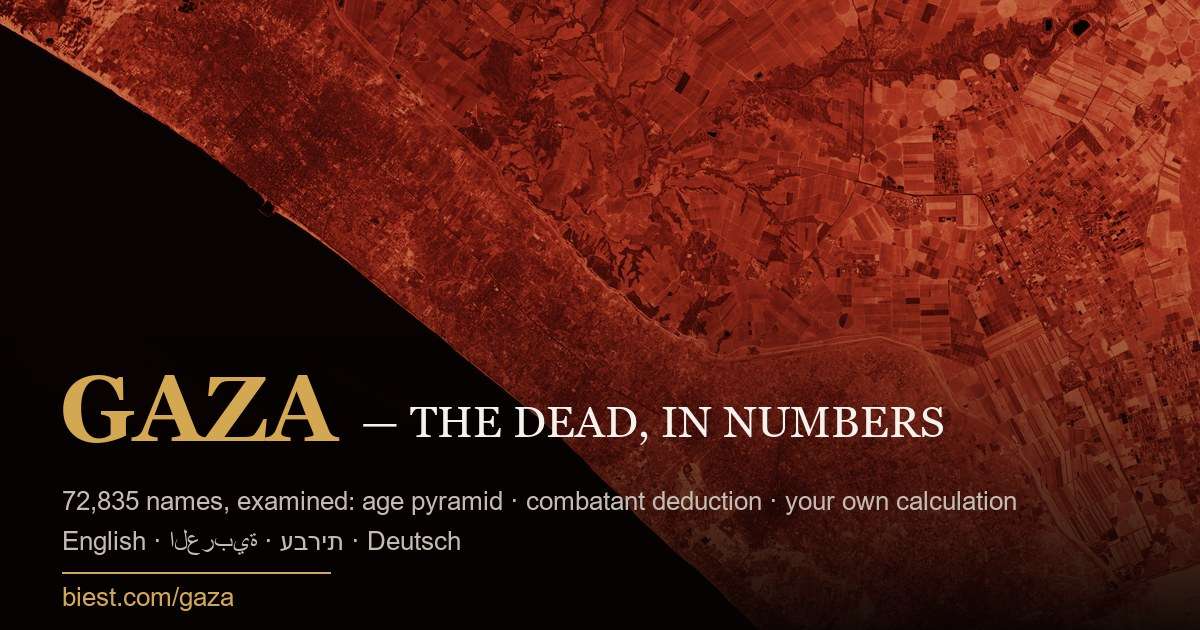
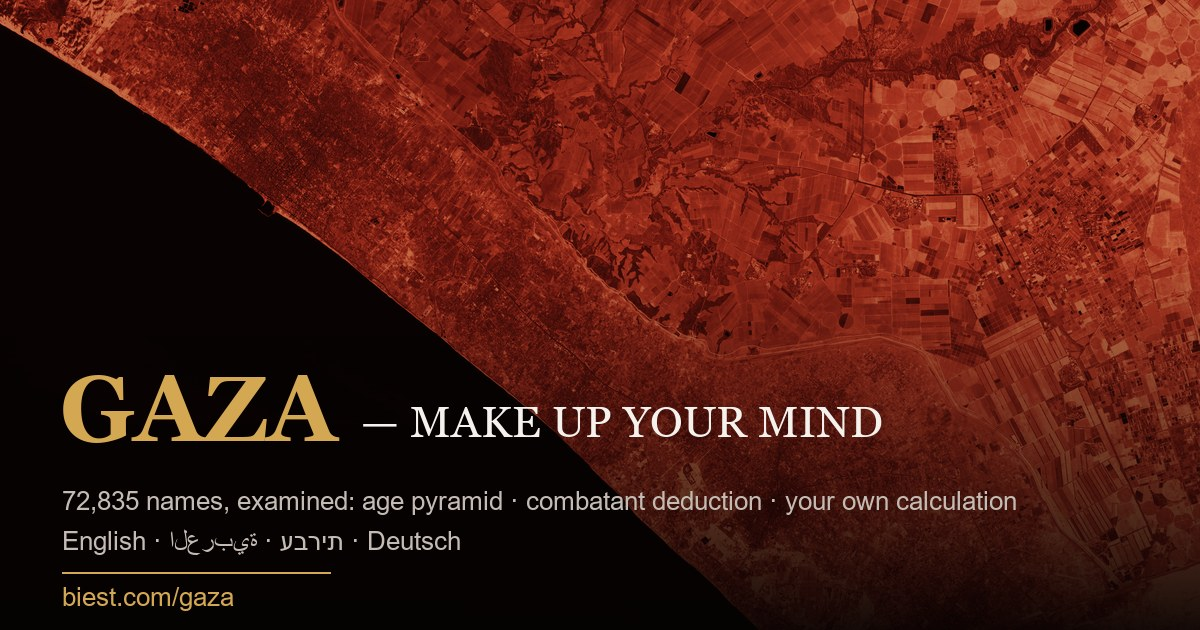
retitle: Make Up Your Mind (site, OG image, metas)

Changed region(s): [[0.3392, 0.6333, 0.8017, 0.6937]]

diff --git a/site/index.html b/site/index.html
@@ -3,18 +3,18 @@
 <head>
 <meta charset="utf-8">
 <meta name="viewport" content="width=device-width, initial-scale=1">
-<title>Gaza: Die Toten in Zahlen — biest.com</title>
+<title>Gaza: Bilde dir dein Urteil — biest.com</title>
 <meta name="description" content="Statistische Analyse der Opferliste des Gazakriegs 2023–2026: Alterspyramide, Skeptiker-Checks, Zeitverlauf und Presse-Perspektiven.">
 <meta property="og:type" content="website">
 <meta property="og:site_name" content="biest.com">
-<meta property="og:title" content="Gaza — The Dead, in Numbers">
+<meta property="og:title" content="Gaza — Make Up Your Mind">
 <meta property="og:description" content="72,835 names, examined: 3D age pyramid, combatant deduction from competing sources, week-by-week press narratives, and a calculator for your own estimate. EN · AR · HE · DE">
 <meta property="og:url" content="https://biest.com/gaza">
 <meta property="og:image" content="https://biest.com/gaza/og.jpg">
 <meta property="og:image:width" content="1200">
 <meta property="og:image:height" content="630">
 <meta name="twitter:card" content="summary_large_image">
-<meta name="twitter:title" content="Gaza — The Dead, in Numbers">
+<meta name="twitter:title" content="Gaza — Make Up Your Mind">
 <meta name="twitter:description" content="72,835 names, examined — age pyramid, combatant deduction, your own calculation. EN · AR · HE · DE">
 <meta name="twitter:image" content="https://biest.com/gaza/og.jpg">
 <script>/* Unter biest.com liegt die Seite auf /gaza (ohne Slash-Redirect) — base fixiert alle relativen Pfade. Lokal neutral. */
@@ -32,7 +32,7 @@ if (location.pathname.startsWith("/gaza")) document.write('<base href="/gaza/">'
 
 <header class="hero">
   <p class="kicker">biest.com · Statistikprojekt</p>
-  <h1>Gaza: Die Toten in Zahlen</h1>
+  <h1>Gaza: Bilde dir dein Urteil</h1>
   <p class="sub">Die Opferliste des Gesundheitsministeriums in Gaza, konsolidiert von Iraq Body Count —
      namentlich, mit ID, Geburtsdatum, Alter und Geschlecht. Hier wird sie nicht nur gezeigt,
      sondern geprüft: auf Plausibilität, Lücken und die Streitfragen der Statistik.</p>

diff --git a/site/js/i18n.js b/site/js/i18n.js
@@ -11,7 +11,7 @@
   const D = {
     // Hero & Chrome
     "hero.kicker":  { de: "biest.com · Statistikprojekt", en: "biest.com · statistics project", ar: "biest.com · مشروع إحصائي", he: "biest.com · פרויקט סטטיסטי" },
-    "hero.title":   { de: "Gaza: Die Toten in Zahlen", en: "Gaza: The Dead, in Numbers", ar: "غزة: القتلى بالأرقام", he: "עזה: המתים במספרים" },
+    "hero.title":   { de: "Gaza: Bilde dir dein Urteil", en: "Gaza: Make Up Your Mind", ar: "غزة: كوّن رأيك بنفسك", he: "עזה: גבשו עמדה בעצמכם" },
     "hero.sub":     { de: "Die Opferliste des Gesundheitsministeriums in Gaza, konsolidiert von Iraq Body Count — namentlich, mit ID, Geburtsdatum, Alter und Geschlecht. Hier wird sie nicht nur gezeigt, sondern geprüft: auf Plausibilität, Lücken und die Streitfragen der Statistik.",
                       en: "The Gaza Health Ministry's casualty list, consolidated by Iraq Body Count — every name with ID, birth date, age and sex. Here it is not just displayed but stress-tested: for plausibility, gaps, and the statistical disputes.",
                       ar: "قائمة قتلى وزارة الصحة في غزة، موحّدة عبر Iraq Body Count — بالأسماء مع الهوية وتاريخ الميلاد والعمر والجنس. هنا لا تُعرض فحسب، بل تُفحص: المعقولية والثغرات والخلافات الإحصائية.",

diff --git a/make_og.py b/make_og.py
@@ -59,7 +59,7 @@ sans = ImageFont.truetype(os.path.join(F, "arial.ttf"), 26)
 GOLD, WHITE, GREY = (212, 168, 83), (245, 242, 238), (196, 188, 180)
 d.text((60, 356), "GAZA", font=serif_b, fill=GOLD)
 w = d.textlength("GAZA", font=serif_b)
-d.text((60 + w + 24, 396), "— THE DEAD, IN NUMBERS", font=serif, fill=WHITE)
+d.text((60 + w + 24, 396), "— MAKE UP YOUR MIND", font=serif, fill=WHITE)
 d.text((62, 486), "72,835 names, examined: age pyramid · combatant deduction · your own calculation",
        font=sans, fill=GREY)
 d.text((62, 526), "English · العربية · עברית · Deutsch", font=sans, fill=GREY)
